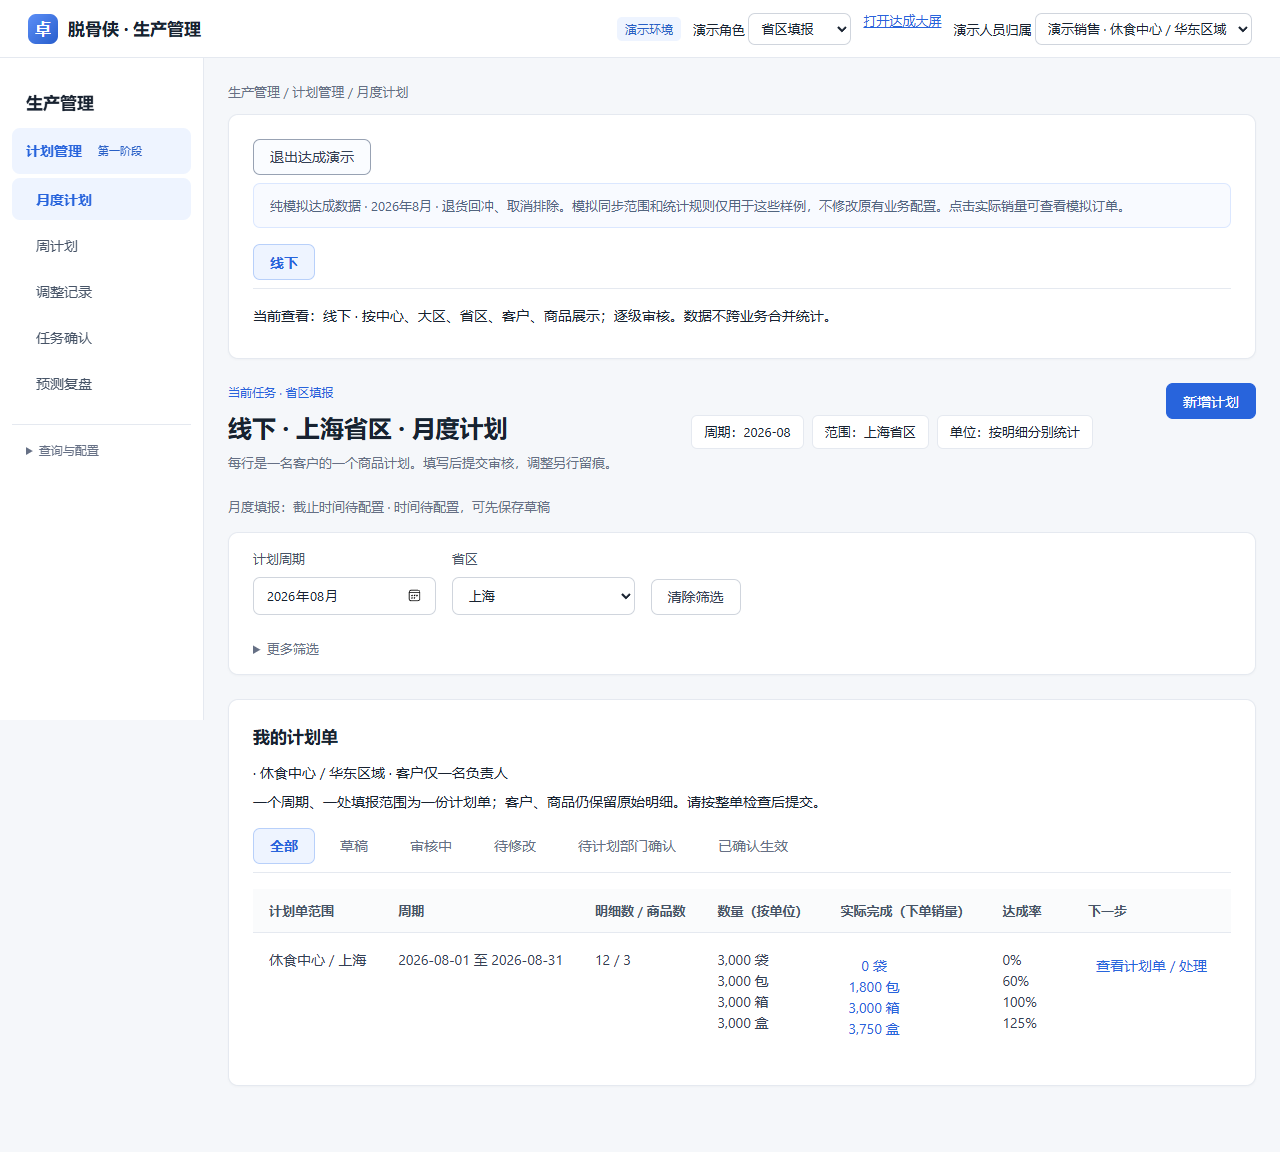
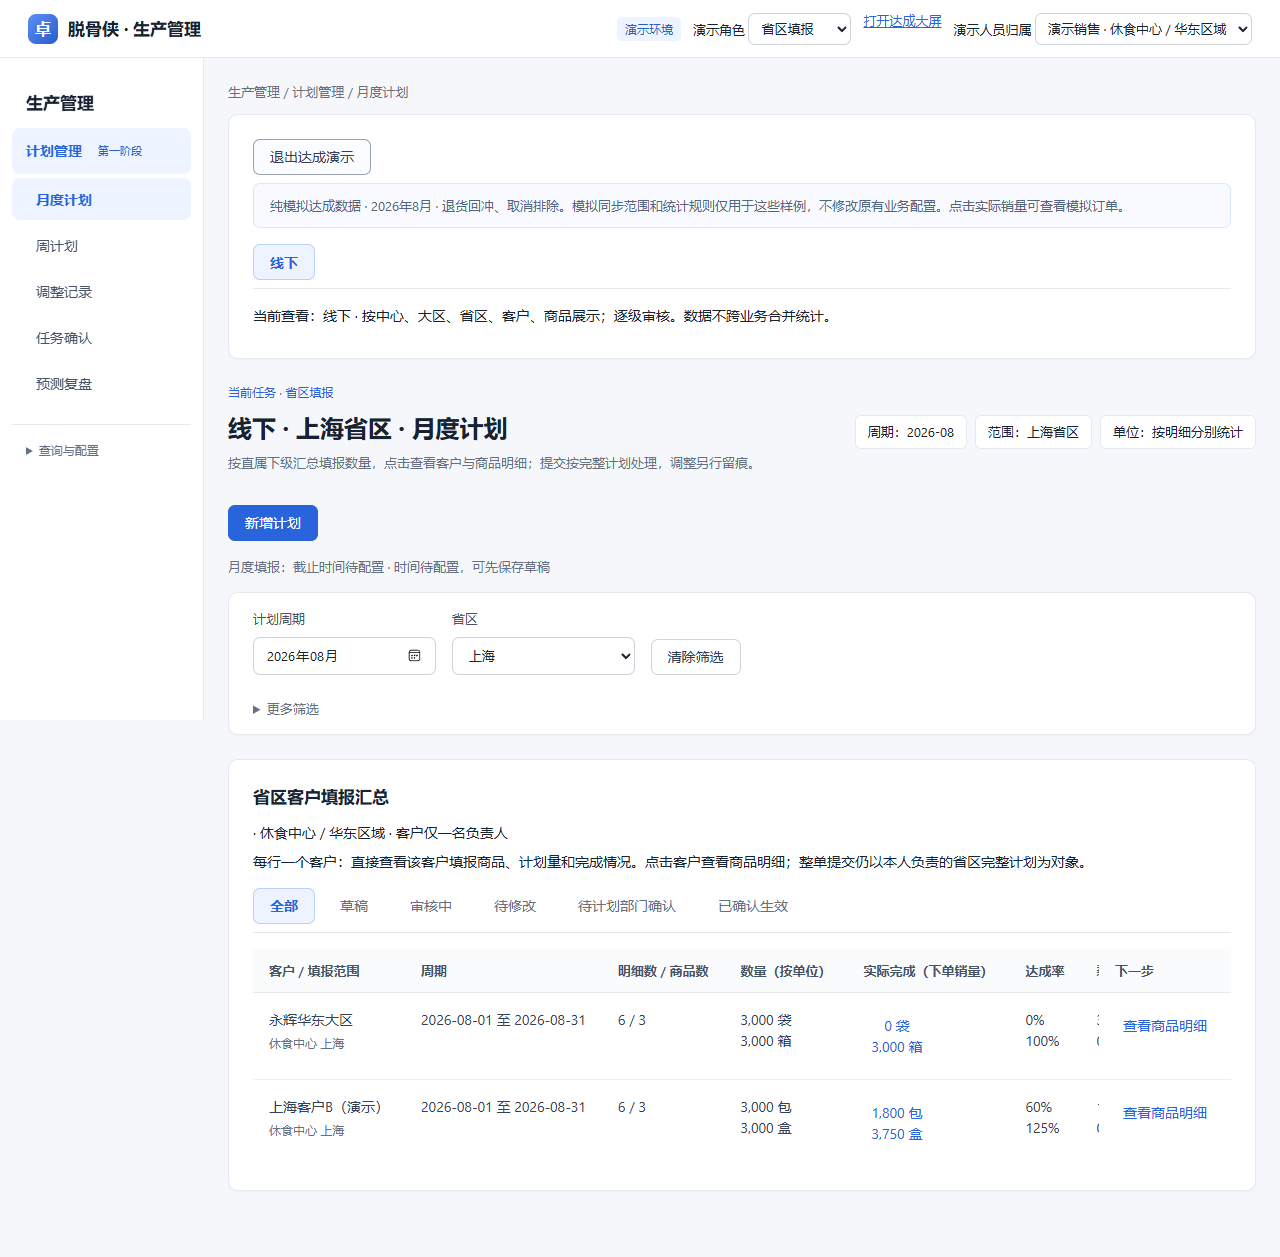
Auto sync 2026-10-13 16:10:58

diff --git a/09-设计与原型/销售计划管理/分级计划汇总.js b/09-设计与原型/销售计划管理/分级计划汇总.js
@@ -7,7 +7,7 @@
  function completeSelection(xs){if(BusinessRelease.reviewGuard(d,xs,role))return false;const gs=groups(xs,dimension);return gs.every(g=>{const full=groups(d.plans.filter(p=>(api.filters().achievementDemo?!!p.achievementDemo:!p.achievementDemo)&&p.business===(role==='丹总'?'online':'offline')&&p.kind===api.kind()&&!p.archived),dimension).find(v=>v.name===g.name&&v.center===g.center&&(dimension==='center'||v.area===g.area)&&v.start===g.start&&v.end===g.end);return full&&full.plans.length===g.plans.length&&ready(full.plans);});}
  function quantities(xs,value=p=>p.qty){const map=new Map();xs.forEach(p=>map.set(p.unit,(map.get(p.unit)||0)+Number(value(p)||0)));return [...map].map(([unit,qty])=>qty.toLocaleString('zh-CN')+' '+E(unit)).join(' / ');}
  function groups(xs,key){const map=new Map(),org=['center','area','province','channel','customer'].includes(key);xs.forEach(p=>{const keys=[p.center,['province','customer'].includes(key)?p.area:'',key==='customer'?p.province:'',p[key],org?'all':p.product,org?'all':p.unit,p.start,p.end];const k=JSON.stringify(keys),g=map.get(k)||{name:p[key]||'客户待维护',product:org?'all':p.product,unit:org?'':p.unit,center:p.center,area:p.area,start:p.start,end:p.end,plans:[]};g.plans.push(p);map.set(k,g);});return [...map.values()];}
- function table(xs,key,reviewed=false,readonly=false){const gs=groups(xs,key);return {gs,html:`<div class="table-wrap"><table><thead><tr><th>${label[key]}${role==='丹总'?'':' / 组织'}</th><th>填报商品 / 商品种数</th><th>周期</th><th>${role==='丹总'?'渠道数':'客户数'}</th><th>原始填报数量</th><th>当前填报总量</th>${PlanAchievement.headings()}${reviewed?'<th>审核结果</th><th>审核数量</th><th>审核意见 / 时间</th>':'<th>待本级审核</th>'}<th>操作</th></tr></thead><tbody>${gs.map((g,i)=>`<tr><td>${E(key==='product'?(d.products.find(p=>p.id===g.name)?.name||g.name):g.name)}<small>${role==='丹总'?'线上渠道':E(g.center)+' · '+E(key==='center'?'各大区汇总':g.area)}</small></td><td>${E(g.product==='all'?new Set(g.plans.map(p=>p.product)).size+' 种商品':d.products.find(p=>p.id===g.product)?.name||g.product)}</td><td>${g.start} 至 ${g.end}</td><td>${new Set(g.plans.map(p=>role==='丹总'?p.channel:p.customer).filter(Boolean)).size}</td><td>${quantities(g.plans,p=>p.versions[0].qty)}</td><td>${quantities(g.plans)}</td>${PlanAchievement.cells(d,g.plans)}${reviewed?`<td>${E([...new Set(g.plans.map(p=>audit(p)?.action.includes('驳回')?'驳回':'通过'))].join(' / '))}</td><td>${quantities(g.plans,p=>audit(p)?.qty)}</td><td>${g.plans.map(p=>`<small>${E(p.id)} · ${E(audit(p)?.opinion||'无补充意见')} · ${E(audit(p)?.at)}</small>`).join('')}</td>`:`<td>${ready(g.plans)&&completeSelection(g.plans)?g.plans.length+' 条待整份审核':E(BusinessRelease.reviewGuard(d,g.plans,role)||'下级未完成 / 存在草稿、驳回或部分审核')}</td>`}<td><button data-group="${i}">查看详情</button>${!readonly&&!reviewed&&ready(g.plans)&&completeSelection(g.plans)?` <button class="primary review-row-pass" data-group-review="${i}">审核整份计划</button> <button class="review-row-reject" data-group-reject="${i}">驳回</button>`:''}</td></tr>`).join('')}</tbody></table></div>`};}
+ function table(xs,key,reviewed=false,readonly=false){const gs=groups(xs,key);return {gs,html:`<div class="table-wrap"><table><thead><tr><th>${label[key]}${role==='丹总'?'':' / 组织'}</th><th>填报商品 / 商品种数</th><th>周期</th><th>${role==='丹总'?'渠道数':'客户数'}</th><th>原始填报数量</th><th>当前填报总量</th>${PlanAchievement.headings()}${reviewed?'<th>审核结果</th><th>审核数量</th><th>审核意见 / 时间</th>' :readonly?'<th>计划进度</th>':'<th>待本级审核</th>'}<th>操作</th></tr></thead><tbody>${gs.map((g,i)=>`<tr><td>${E(key==='product'?(d.products.find(p=>p.id===g.name)?.name||g.name):g.name)}<small>${role==='丹总'?'线上渠道':E(g.center)+' · '+E(key==='center'?'各大区汇总':g.area)}</small></td><td>${E(g.product==='all'?new Set(g.plans.map(p=>p.product)).size+' 种商品':d.products.find(p=>p.id===g.product)?.name||g.product)}</td><td>${g.start} 至 ${g.end}</td><td>${new Set(g.plans.map(p=>role==='丹总'?p.channel:p.customer).filter(Boolean)).size}</td><td>${quantities(g.plans,p=>p.versions[0].qty)}</td><td>${quantities(g.plans)}</td>${PlanAchievement.cells(d,g.plans)}${reviewed?`<td>${E([...new Set(g.plans.map(p=>audit(p)?.action.includes('驳回')?'驳回':'通过'))].join(' / '))}</td><td>${quantities(g.plans,p=>audit(p)?.qty)}</td><td>${g.plans.map(p=>`<small>${E(p.id)} · ${E(audit(p)?.opinion||'无补充意见')} · ${E(audit(p)?.at)}</small>`).join('')}</td>`:`<td>${readonly?E([...new Set(g.plans.map(p=>SalesPlan.status(d,p)))].join(' / ')):ready(g.plans)&&completeSelection(g.plans)?g.plans.length+' 条待整份审核':E(BusinessRelease.reviewGuard(d,g.plans,role)||'下级未完成 / 存在草稿、驳回或部分审核')}</td>`}<td><button data-group="${i}">查看详情</button>${!readonly&&!reviewed&&ready(g.plans)&&completeSelection(g.plans)?` <button class="primary review-row-pass" data-group-review="${i}">审核整份计划</button> <button class="review-row-reject" data-group-reject="${i}">驳回</button>`:''}</td></tr>`).join('')}</tbody></table></div>`};}
  function bind(container,result,key){bindRejects(container,result);container.querySelectorAll('[data-group]').forEach(b=>b.onclick=()=>detail(result.gs[Number(b.dataset.group)].plans,key));container.querySelectorAll('[data-group-review]').forEach(b=>b.onclick=()=>approve(result.gs[Number(b.dataset.groupReview)].plans,false,false));}
  function detail(xs,key,back){const next={center:'area',area:'province',province:'customer'}[key]||'customer',tabs=key==='channel'?['product']:key==='center'?['area','province','customer','product']:key==='area'?['province','customer','product']:['customer','product'];let selected=key==='channel'?'product':next;const name={area:'大区计划',province:'省区计划',customer:'客户明细',product:'商品汇总'};
  api.modal('商品计划汇总详情',`<div class="row space"><p>当前范围：${E([...new Set(xs.map(p=>p[key]||p.province))].join('、'))} · 来源 ${xs.length} 条计划 · 合计 ${quantities(xs)}</p>${back?'<button id="summaryBack">返回上一层</button>':''}</div><div class="summary-tabs" role="tablist" aria-label="汇总详情维度">${tabs.map(k=>`<button type="button" role="tab" id="summaryTab-${k}" aria-controls="summaryPanel" data-dimension="${k}" aria-selected="${k===selected}" tabindex="${k===selected?0:-1}">${name[k]}</button>`).join('')}</div>${!back&&key===dimension&&ready(xs)&&completeSelection(xs)?'<div class="actions"><button id="reviewWholeSummary" class="primary">审核整份计划</button></div>':''}<section id="summaryPanel" role="tabpanel" aria-labelledby="summaryTab-${selected}" tabindex="0"></section>`);

diff --git a/09-设计与原型/销售计划管理/07-销售计划管理PRD.md b/09-设计与原型/销售计划管理/07-销售计划管理PRD.md
@@ -36,9 +36,9 @@
 
 正常流程：草稿→整单提交→销售审核逐级通过→待计划部门确认→确认生效。线下三个销售审核节点，线上一个节点。完整无需求批次执行相同流程。
 
-大区列表按省区汇总；中心列表按大区汇总；严总列表按中心汇总；丹总按渠道汇总。列表展示下级名称、商品数、客户数（仅线下）、各单位数量、完整性和状态。数量按箱、包、袋、盒、罐、支分列/分组，未配置商品单位换算不得相加。
+省区填报首页每个客户一行，汇总该客户所有商品计划量（按单位），不再把所有客户收在一行省区计划里，也不按商品重复展示客户。大区列表按省区汇总；中心列表按大区汇总；严总列表按中心汇总；丹总按渠道汇总。列表展示下级名称、商品数、客户数（仅线下）、各单位数量、完整性和状态。数量按箱、包、袋、盒、罐、支分列/分组，未配置商品单位换算不得相加。
 
-组织/客户明细与商品统计使用独立表格页签。商品详情能追溯到线下客户或线上渠道。详情页只看明细，不对某一商品直接通过整个组织。审核按钮以完整下级汇总为对象，须核对固定批次、应填清单、版本和下级审核状态。
+组织/客户明细与商品统计使用独立表格页签；每个客户在客户维度只出现一行。下钻链为中心→大区→省区→客户→商品明细，每层的合计必须能与明细对账。客户列表入口只查看和编辑客户明细，提交/撤回须进入本人整份省区计划，不能局部提交。商品详情能追溯到线下客户或线上渠道。详情页只看明细，不对某一商品直接通过整个组织。审核按钮以完整下级汇总为对象，须核对固定批次、应填清单、版本和下级审核状态。
 
 存在未报、草稿、驳回或部分下级未完成时，上级仅查看，不通过不完整汇总。批量审核仅勾选完整可审汇总，确认弹窗列明范围、商品明细及单位数量，填写意见后原子处理；不是点击即通过。待审核、已审核分表。
 

diff --git a/09-设计与原型/销售计划管理/销售计划管理验收记录.md b/09-设计与原型/销售计划管理/销售计划管理验收记录.md
@@ -40,4 +40,8 @@
 ## 达成数字演示
 
 新增48条隔离的月度/周、线上/线下模拟计划及对应模拟订单，实际完成按模拟订单净量得到0/600/1000/1250，计划1000对应0%/60%/100%/125%，剩余1000/400/0/0，超额250。取消不计入、退货回冲，月周复用同一订单避免重复造单；四种单位分组。已验证原有计划、统计配置与同步范围不变，退出可恢复查看。统一验收入口增加达成演示专项，共13组。
+## 直属下级维度修正
+
+省区首页按客户汇总，同一客户多个商品合并为一行；大区按省区、中心按大区，支持逐级下钻到客户商品。专项测试验证上海两客户各两商品分别210/410袋，上海汇总620袋，再按大区归集；客户入口不能部分提交，整份省区入口保留。只读明细展示计划进度，不误标为待本级审核。统一入口新增直属下级汇总专项，共14组。
+
 
